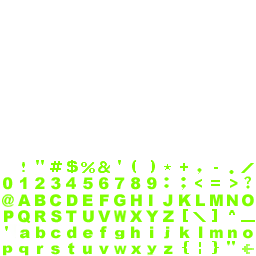
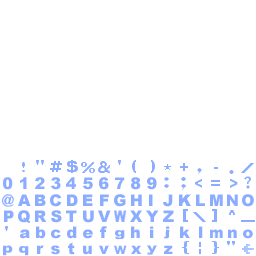
Altered console image + text color + console message github

diff --git a/src/common/common.c b/src/common/common.c
@@ -1031,9 +1031,8 @@ void Qcommon_Init(int argc, char **argv)
 
     Com_AddConfigFile(COM_POSTINIT_CFG, FS_TYPE_REAL);
 
-    Com_Printf("====== " PRODUCT " initialized ======\n\n");
-    Com_LPrintf(PRINT_NOTICE, APPLICATION " " VERSION ", " __DATE__ "\n");
-    Com_Printf("https://github.com/skullernet/q2pro\n\n");
+    Com_Printf("====== Smilo Quake initialized ======\n\n");
+    Com_Printf("https://github.com/Smilo-platform/Smilo-Quake\n\n");
 
     time(&com_startTime);
 
